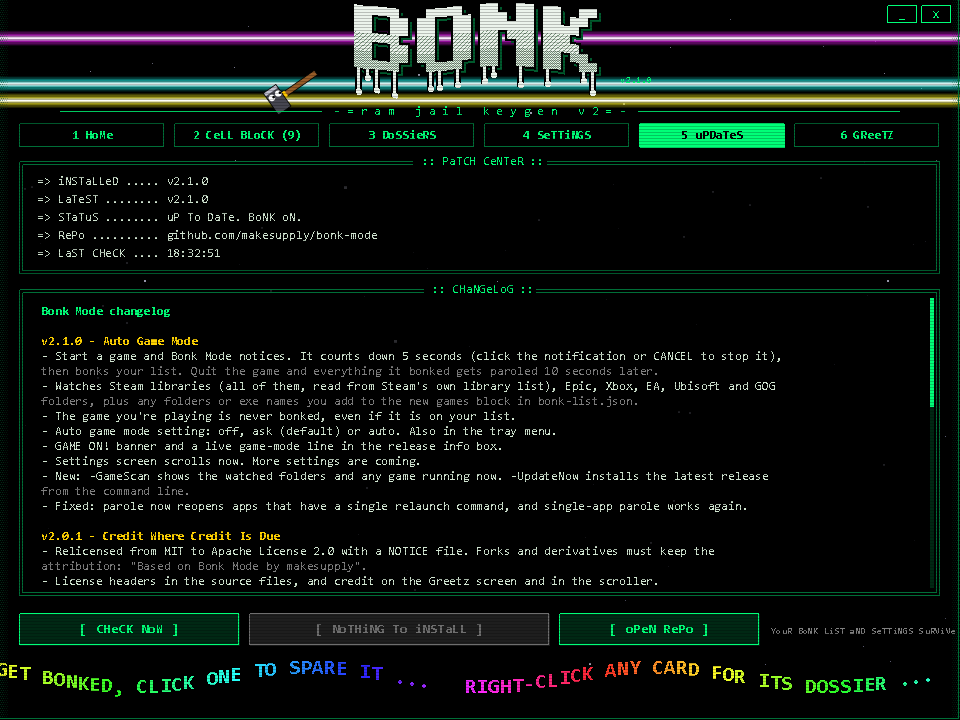
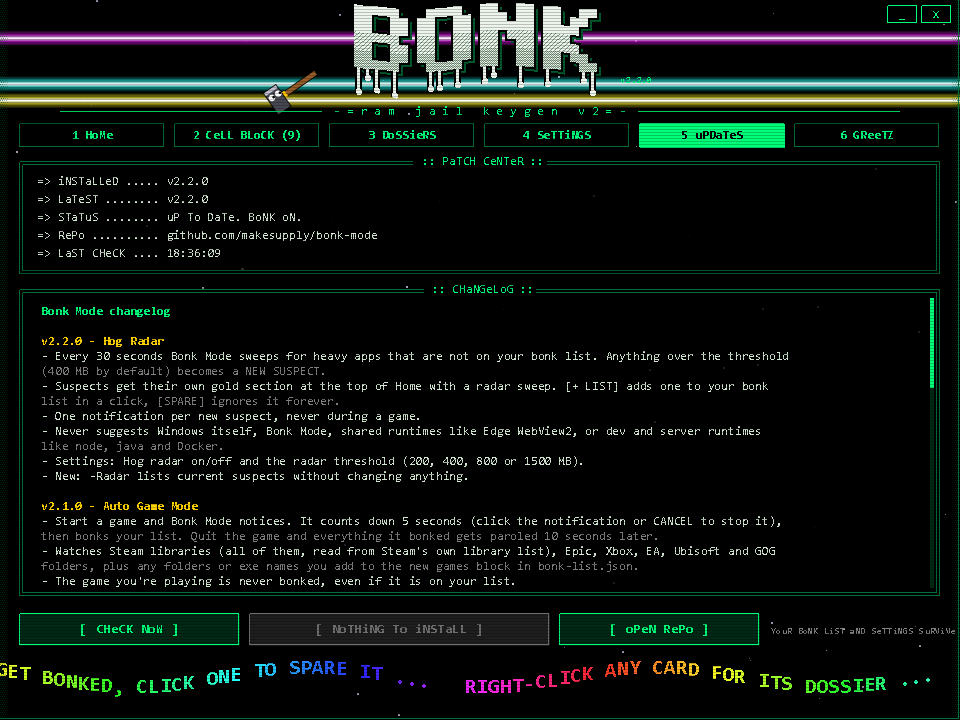
v2.2.0: Hog Radar
Flag heavy apps that are not on the bonk list yet.

- 30 second radar sweep in the tray; one notification per new suspect,
  never during a game.
- Gold NEW SUSPECTS section on Home with [+ LIST] and [SPARE] (spare
  forever is stored in bonk-list.json spareForever).
- Never suggests Windows, Bonk Mode, WebView2, node, java, Docker, WSL.
- Settings: radar on/off and threshold; -Radar dry run.
- Verified add and spare-forever against an isolated copy.

diff --git a/bonk-ui.cs b/bonk-ui.cs
@@ -353,7 +353,8 @@ namespace BonkMode
     {
         public string Label, Names, Relaunch;
         public int MB, Procs, Hash, Number;
-        public bool Enabled, Running, Jailed;
+        public bool Enabled, Running, Jailed, Suspect;
+        public string Proc;
         public RectangleF Rect;
         public float Shake, Flash, Bars, ShownMB, Nervous;
         public List<int> History = new List<int>();
@@ -393,6 +394,7 @@ namespace BonkMode
         public event Action<string> ParoleOneClicked;
         public event Action<string, string> SettingChanged;
         public event Action GameCancelClicked;
+        public event Action<string, string> SuspectAction;
 
         public static bool NoAudio;
 
@@ -432,6 +434,8 @@ namespace BonkMode
             new[] { "hammer", "cycle:fast,normal,dramatic", "Hammer speed", "How long each swing takes. Dramatic is very dramatic." },
             new[] { "polite", "cycle:2,4,8", "Polite warning", "Seconds apps get to close nicely before the hammer falls." },
             new[] { "gameMode", "cycle:off,ask,auto", "Auto game mode", "Bonk when a game starts, parole when it quits. Ask = 5 second countdown you can cancel." },
+            new[] { "radar", "bool", "Hog radar", "Flag heavy apps that are not on your list yet. Sweeps every 30 seconds." },
+            new[] { "radarMB", "cycle:200,400,800,1500", "Radar threshold", "How much RAM an unlisted app needs before it becomes a suspect." },
             new[] { "autostart", "bool", "Start with Windows", "Put the hammer in the tray at login." },
             new[] { "autoUpdate", "bool", "Check for updates", "Look for a new release on GitHub when this opens and every 6h." }
         };
@@ -439,6 +443,8 @@ namespace BonkMode
         readonly System.Windows.Forms.Timer timer = new System.Windows.Forms.Timer();
         readonly List<AppInfo> apps = new List<AppInfo>();
         readonly List<AppInfo> homeOrder = new List<AppInfo>();
+        readonly List<AppInfo> suspects = new List<AppInfo>();
+        double radarPing = -1;
         readonly List<Head> homeHeads = new List<Head>();
         readonly Dictionary<string, Inmate> inmates = new Dictionary<string, Inmate>();
         readonly List<Particle> parts = new List<Particle>();
@@ -684,6 +690,7 @@ namespace BonkMode
             }
             for (int i = pops.Count - 1; i >= 0; i--) { pops[i].Age += fdt; if (pops[i].Age > 0.75f) pops.RemoveAt(i); }
             if (bannerT >= 0) { bannerT += dt; if (bannerT > 2.2) bannerT = -1; }
+            if (radarPing >= 0) { radarPing += dt; if (radarPing > 3) radarPing = -1; }
             shake = Math.Max(0, shake - fdt * 2.5f);
             scrollX -= dt * 140;
             if (scrollX < -scrollText.Length * charW) scrollX = W;
@@ -714,6 +721,33 @@ namespace BonkMode
         void Play(short[] s) { if (audio != null) audio.Play(s); }
 
         static bool IsTarget(AppInfo a) { return a.Running && a.Enabled && !a.Jailed; }
+
+        AppInfo FindSuspect(string proc)
+        {
+            foreach (AppInfo a in suspects) if (a.Proc == proc) return a;
+            return null;
+        }
+
+        public void SetSuspects(string[] procs, string[] labels, int[] mb, int[] count)
+        {
+            Dictionary<string, AppInfo> old = new Dictionary<string, AppInfo>();
+            foreach (AppInfo x in suspects) old[x.Proc] = x;
+            suspects.Clear();
+            bool fresh = false;
+            for (int i = 0; i < procs.Length; i++)
+            {
+                AppInfo a;
+                if (!old.TryGetValue(procs[i], out a))
+                {
+                    a = new AppInfo(); a.Proc = procs[i]; a.Suspect = true; a.Running = true;
+                    a.Hash = StableHash(procs[i]); a.Number = 1000 + (a.Hash % 9000); fresh = true;
+                }
+                a.Label = labels[i]; a.MB = mb[i]; a.Procs = count[i]; a.Names = procs[i];
+                suspects.Add(a);
+            }
+            if (fresh) { radarPing = 0; Play(sfxBlip); }
+            if (hammerIdx < 0) LayoutHome();
+        }
 
         AppInfo Find(string label)
         {
@@ -849,6 +883,7 @@ namespace BonkMode
                 else spared.Add(a);
             }
             float y = 0;
+            if (suspects.Count > 0) y = Section(y, "NeW SuSPeCTS", suspects, Gold, "HeaVY aPPS NoT oN YouR LiST. aDD THeM oR SPaRe THeM FoReVeR.");
             y = Section(y, "GoNNa GeT BoNKeD", targets, Red, "THeSe CLoSe WHeN You HiT BoNK. CLiCK oNe To SPaRe iT.");
             y = Section(y, "SPaReD", spared, Green, "THeSe STaY oPeN. CLiCK oNe To SeNTeNCe iT.");
             if (jailed.Count > 0) y = Section(y, "iN JaiL", jailed, Color.FromArgb(170, 170, 185), "CLoSeD BY a BoNK. PaRoLe BRiNGS THeM BaCK.");
@@ -864,6 +899,7 @@ namespace BonkMode
             Head h = new Head();
             h.Y = y; h.Col = col;
             h.Text = title + " (" + list.Count + ")" + (list.Count > 0 && title != "iN JaiL" ? "  ::  " + FormatSize(mb) : "");
+            if (title == "NeW SuSPeCTS" && radarPing >= 0 && radarPing < 1.5 && (int)(radarPing * 6) % 2 == 0) h.Col = Color.White;
             h.Right = Leet(hint);
             homeHeads.Add(h);
             y += 24;
@@ -1078,6 +1114,18 @@ namespace BonkMode
                     i = (i + (act == "next" ? 1 : opts.Length - 1)) % opts.Length;
                     ChangeSetting(key, opts[i]);
                 }
+                return;
+            }
+            if (id.StartsWith("susadd:") || id.StartsWith("susspare:"))
+            {
+                bool add = id.StartsWith("susadd:");
+                string proc = id.Substring(id.IndexOf(':') + 1);
+                AppInfo s = FindSuspect(proc);
+                if (s != null) { suspects.Remove(s); LayoutHome(); }
+                Play(add ? sfxSlam : sfxClick);
+                if (add && shakeOn) shake = 0.3f;
+                status = Leet(add ? "added to the bonk list: " + (s != null ? s.Label : proc) : "spared forever: " + (s != null ? s.Label : proc));
+                if (SuspectAction != null) SuspectAction(proc, add ? "add" : "spare");
                 return;
             }
             if (id == "gamecancel") { Play(sfxClick); if (GameCancelClicked != null) GameCancelClicked(); return; }
@@ -1396,7 +1444,8 @@ namespace BonkMode
                 if (r.Bottom < area.Top || r.Top > area.Bottom) continue;
                 DrawTile(g, a, r);
                 RectangleF vis = RectangleF.Intersect(r, area);
-                if (vis.Height > 4) Zone(vis, "tile:" + a.Label);
+                if (vis.Height > 4) Zone(vis, (a.Suspect ? "sustile:" : "tile:") + (a.Suspect ? a.Proc : a.Label));
+                if (a.Suspect) DrawSuspectButtons(g, a, r, area);
             }
             g.ResetClip();
             Scrollbar(g, W - 26, area.Top, area.Bottom, homeContentH, homeScroll);
@@ -1406,11 +1455,14 @@ namespace BonkMode
             // hover info bar: the full truth about whatever card is under the mouse
             string info;
             AppInfo hov = (hoverId != null && hoverId.StartsWith("tile:")) ? Find(hoverId.Substring(5)) : null;
-            if (hov != null)
+            AppInfo hs = (hoverId != null && (hoverId.StartsWith("sus"))) ? FindSuspect(hoverId.Substring(hoverId.IndexOf(':') + 1)) : null;
+            if (hs != null)
+                info = "> " + hs.Label + "  ::  " + FormatSize(hs.MB) + " iN " + hs.Procs + " PRoCeSSeS  ::  " + hs.Proc + ".eXe  ::  NoT oN YouR LiST";
+            else if (hov != null)
                 info = "> " + hov.Label + "  ::  " + (hov.Jailed ? "iN JaiL" : FormatSize(hov.MB) + " iN " + hov.Procs + " PRoCeSSeS") + "  ::  " + hov.Names;
             else
                 info = Leet("> left-click a card to sentence/spare it. right-click for its dossier. wheel scrolls.");
-            g.DrawString(info, fSmall, B(hov != null ? Color.Yellow : Color.FromArgb(150, 160, 150)), new RectangleF(24, 591, W - 48, 16), sfLeftMid);
+            g.DrawString(info, fSmall, B(hov != null || hs != null ? Color.Yellow : Color.FromArgb(150, 160, 150)), new RectangleF(24, 591, W - 48, 16), sfLeftMid);
 
             int tCount = targets;
             Color bonkBg = tCount > 0 && !Busy ? ((int)(t * 4) % 2 == 0 ? Color.FromArgb(150, 0, 0) : Color.FromArgb(210, 40, 0)) : Color.FromArgb(40, 40, 40);
@@ -1432,6 +1484,7 @@ namespace BonkMode
         void DrawTile(Graphics g, AppInfo a, RectangleF r)
         {
             if (a.Shake > 0) r.Offset((float)(Math.Sin(t * 90 + a.Hash) * a.Shake * 6), (float)(Math.Cos(t * 70) * a.Shake * 3));
+            if (a.Suspect) { DrawSuspectTile(g, a, r); return; }
             bool target = IsTarget(a), jailed = a.Jailed;
             bool hot = Hot("tile:" + a.Label);
             Color edge = jailed ? Color.FromArgb(150, 70, 70) : target ? Red : Green;
@@ -1487,6 +1540,47 @@ namespace BonkMode
             if (a.Flash > 0) g.FillRectangle(B(Color.FromArgb((int)(220 * a.Flash), 255, 255, 255)), r);
         }
 
+        void DrawSuspectTile(Graphics g, AppInfo a, RectangleF r)
+        {
+            bool hot = Hot("sustile:" + a.Proc) || Hot("susadd:" + a.Proc) || Hot("susspare:" + a.Proc);
+            bool blink = (int)(t * 3 + a.Hash % 7) % 2 == 0;
+            g.FillRectangle(B(hot ? Color.FromArgb(240, 46, 40, 10) : Color.FromArgb(230, 22, 18, 4)), r);
+            g.DrawRectangle(P(blink ? Gold : Color.FromArgb(150, 120, 0)), r.X, r.Y, r.Width - 1, r.Height - 1);
+            g.DrawRectangle(P(Color.FromArgb(90, 255, 210, 0)), r.X + 2, r.Y + 2, r.Width - 5, r.Height - 5);
+            SizeF cs = g.MeasureString("SuSPeCT", fTiny);
+            g.FillRectangle(B(Gold), r.X + 5, r.Y + 5, cs.Width, 13);
+            g.DrawString("SuSPeCT", fTiny, Brushes.Black, r.X + 5, r.Y + 6);
+            // little radar dish sweeping in the corner
+            float rx = r.Right - 16, ry = r.Y + 13, rr = 9;
+            GraphicsState st = g.Save();
+            g.SmoothingMode = SmoothingMode.AntiAlias;
+            g.FillEllipse(B(Color.FromArgb(20, 60, 30)), rx - rr, ry - rr, rr * 2, rr * 2);
+            g.DrawEllipse(P(Green), rx - rr, ry - rr, rr * 2, rr * 2);
+            double ang = t * 4 + a.Hash;
+            g.DrawLine(P(Green), rx, ry, rx + (float)Math.Cos(ang) * rr, ry + (float)Math.Sin(ang) * rr);
+            if ((int)(t * 2) % 2 == 0) g.FillEllipse(B(Red), rx + 3, ry - 4, 3, 3);
+            g.Restore(st);
+            RectangleF nr = new RectangleF(r.X + 6, r.Y + 22, r.Width - 12, 26);
+            g.DrawString(a.Label, fName, B(Color.White), nr, sfWrap);
+            Color mbc = a.MB >= 1024 ? Color.FromArgb(255, 80, 80) : Color.Yellow;
+            g.DrawString(FormatShort(a.MB) + "  x" + a.Procs, fTileBig, B(mbc), new RectangleF(r.X, r.Y + 48, r.Width, 22), sfCenter);
+        }
+
+        void DrawSuspectButtons(Graphics g, AppInfo a, RectangleF r, Rectangle area)
+        {
+            float bw = (r.Width - 15) / 2f;
+            RectangleF add = new RectangleF(r.X + 5, r.Bottom - 26, bw, 20);
+            RectangleF spare = new RectangleF(r.X + 10 + bw, r.Bottom - 26, bw, 20);
+            bool vis = add.Top >= area.Top && add.Bottom <= area.Bottom;
+            bool ha = vis && Hot("susadd:" + a.Proc), hsp = vis && Hot("susspare:" + a.Proc);
+            g.FillRectangle(B(ha ? Red : Color.FromArgb(110, 0, 0)), add);
+            g.DrawRectangle(P(Color.Yellow), add.X, add.Y, add.Width - 1, add.Height - 1);
+            g.DrawString("+ LiST", fTiny, B(ha ? Color.Black : Color.Yellow), add, sfCenter);
+            g.FillRectangle(B(hsp ? Green : Color.FromArgb(0, 50, 25)), spare);
+            g.DrawRectangle(P(Green), spare.X, spare.Y, spare.Width - 1, spare.Height - 1);
+            g.DrawString("SPaRe", fTiny, B(hsp ? Color.Black : Green), spare, sfCenter);
+            if (vis) { Zone(add, "susadd:" + a.Proc); Zone(spare, "susspare:" + a.Proc); }
+        }
         StringFormat right;
         StringFormat RightAlign()
         {
@@ -1851,7 +1945,7 @@ namespace BonkMode
                 else
                 {
                     Button(g, new RectangleF(cx, y + 2, 36, 28), "<", "set:" + key + ":prev", Color.Black, Green, true);
-                    string shown = key == "polite" ? v + " SeC" : Leet(v);
+                    string shown = key == "polite" ? v + " SeC" : key == "radarMB" ? v + " MB" : Leet(v);
                     g.FillRectangle(B(Color.FromArgb(0, 30, 15)), cx + 40, y + 2, 190, 28);
                     g.DrawString(shown, fBtn, B(Gold), new RectangleF(cx + 40, y + 2, 190, 28), sfCenter);
                     Button(g, new RectangleF(cx + 234, y + 2, 36, 28), ">", "set:" + key + ":next", Color.Black, Green, true);

diff --git a/README.md b/README.md
@@ -66,6 +66,14 @@ Start a game and Bonk Mode notices: **GAME ON!** It counts down five seconds (cl
 
 It watches every Steam library on your PC (read straight from Steam), plus Epic, Xbox, EA, Ubisoft and GOG folders. Got a game somewhere else? Add its folder or exe name to the `games` block in your `bonk-list.json`. The game you're playing is never bonked, even if it's on your list. Set it to **off**, **ask** (default) or **auto** in Settings or the tray menu.
 
+### HOG RADAR: new suspects, flagged for you
+
+![Hog radar](screenshots/home.png)
+
+Every 30 seconds the radar sweeps your PC for heavy apps that aren't on your list yet. Anything over the threshold (400 MB by default) shows up as a gold **NEW SUSPECT** card at the top of Home, with a little radar dish spinning in the corner. Hit **[+ LIST]** to sentence it, or **[SPARE]** to ignore it forever. Your list maintains itself.
+
+The radar never suggests Windows itself, shared engines other apps run on (like Edge WebView2), or developer and server runtimes (node, java, Docker), so it won't tempt you into bonking your Minecraft server.
+
 ### 2 · CELL BLOCK: visit the inmates
 
 ![Cell block](screenshots/cellblock.png)
@@ -152,6 +160,8 @@ Everything is inside the app on screen **4**, and every change saves instantly.
 | Hammer speed | Fast, normal, or **dramatic**. Dramatic is very dramatic. |
 | Polite warning | 2, 4 or 8 seconds for apps to close nicely before the hammer. |
 | Auto game mode | **Off**, **ask** (5 second countdown you can cancel) or **auto**. |
+| Hog radar | Flag heavy apps that aren't on your list. |
+| Radar threshold | 200, 400, 800 or 1500 MB before an app becomes a suspect. |
 | Start with Windows | Hammer in the tray at login. |
 | Check for updates | Looks for a new release on GitHub on open and every 6 hours. |
 
@@ -208,11 +218,16 @@ None of these close anything:
 .\bonk-mode.ps1 -SelfTest          # builds the tray menu and prints what parole would reopen
 .\bonk-mode.ps1 -Preview .\shots   # renders every keygen screen to PNG (uses demo apps)
 .\bonk-mode.ps1 -GameScan          # which game folders are watched, and is a game running now
+.\bonk-mode.ps1 -Radar             # heavy apps that are not on your list yet
 ```
 
 ---
 
 ## 📜 Version history
+
+### v2.2.0 · Hog Radar
+- Sweeps for heavy apps that aren't on your list and flags them as NEW SUSPECTS with one-click add or spare-forever.
+- Never suggests Windows, shared runtimes or dev/server runtimes.
 
 ### v2.1.0 · Auto Game Mode
 - Bonks automatically when a game starts (5 second countdown you can cancel, or fully auto) and paroles when it quits.

diff --git a/CHANGELOG.md b/CHANGELOG.md
@@ -1,5 +1,13 @@
 # Bonk Mode changelog
 
+## v2.2.0 - Hog Radar
+- Every 30 seconds Bonk Mode sweeps for heavy apps that are not on your bonk list. Anything over the threshold (400 MB by default) becomes a NEW SUSPECT.
+- Suspects get their own gold section at the top of Home with a radar sweep. [+ LIST] adds one to your bonk list in a click, [SPARE] ignores it forever.
+- One notification per new suspect, never during a game.
+- Never suggests Windows itself, Bonk Mode, shared runtimes like Edge WebView2, or dev and server runtimes like node, java and Docker.
+- Settings: Hog radar on/off and the radar threshold (200, 400, 800 or 1500 MB).
+- New: -Radar lists current suspects without changing anything.
+
 ## v2.1.0 - Auto Game Mode
 - Start a game and Bonk Mode notices. It counts down 5 seconds (click the notification or CANCEL to stop it), then bonks your list. Quit the game and everything it bonked gets paroled 10 seconds later.
 - Watches Steam libraries (all of them, read from Steam's own library list), Epic, Xbox, EA, Ubisoft and GOG folders, plus any folders or exe names you add to the new games block in bonk-list.json.

diff --git a/ROADMAP.md b/ROADMAP.md
@@ -13,11 +13,9 @@ This is the plan, not a promise. Order may change. Ideas welcome in [Issues](htt
 | v2.0.0 | The Cell Block Update | Six screens, inmates, dossiers, settings, live updater |
 | v2.0.1 | Credit Where Credit Is Due | Apache 2.0 + NOTICE |
 | v2.1.0 | Auto Game Mode | Bonks when a game starts, paroles when it quits |
+| v2.2.0 | Hog Radar | Flags heavy apps that are not on your list yet |
 
 ## 🔜 Next up
-
-### v2.2.0 · Hog Radar
-A new app starts eating gigabytes? **NEW SUSPECT DETECTED.** One click adds it to your list, or spares it forever. The list maintains itself.
 
 ### v2.3.0 · Startup Jail
 See every app that launches when Windows boots and how much it slows you down. Jail the freeloaders from startup. Every change can be undone, and nothing is deleted.
